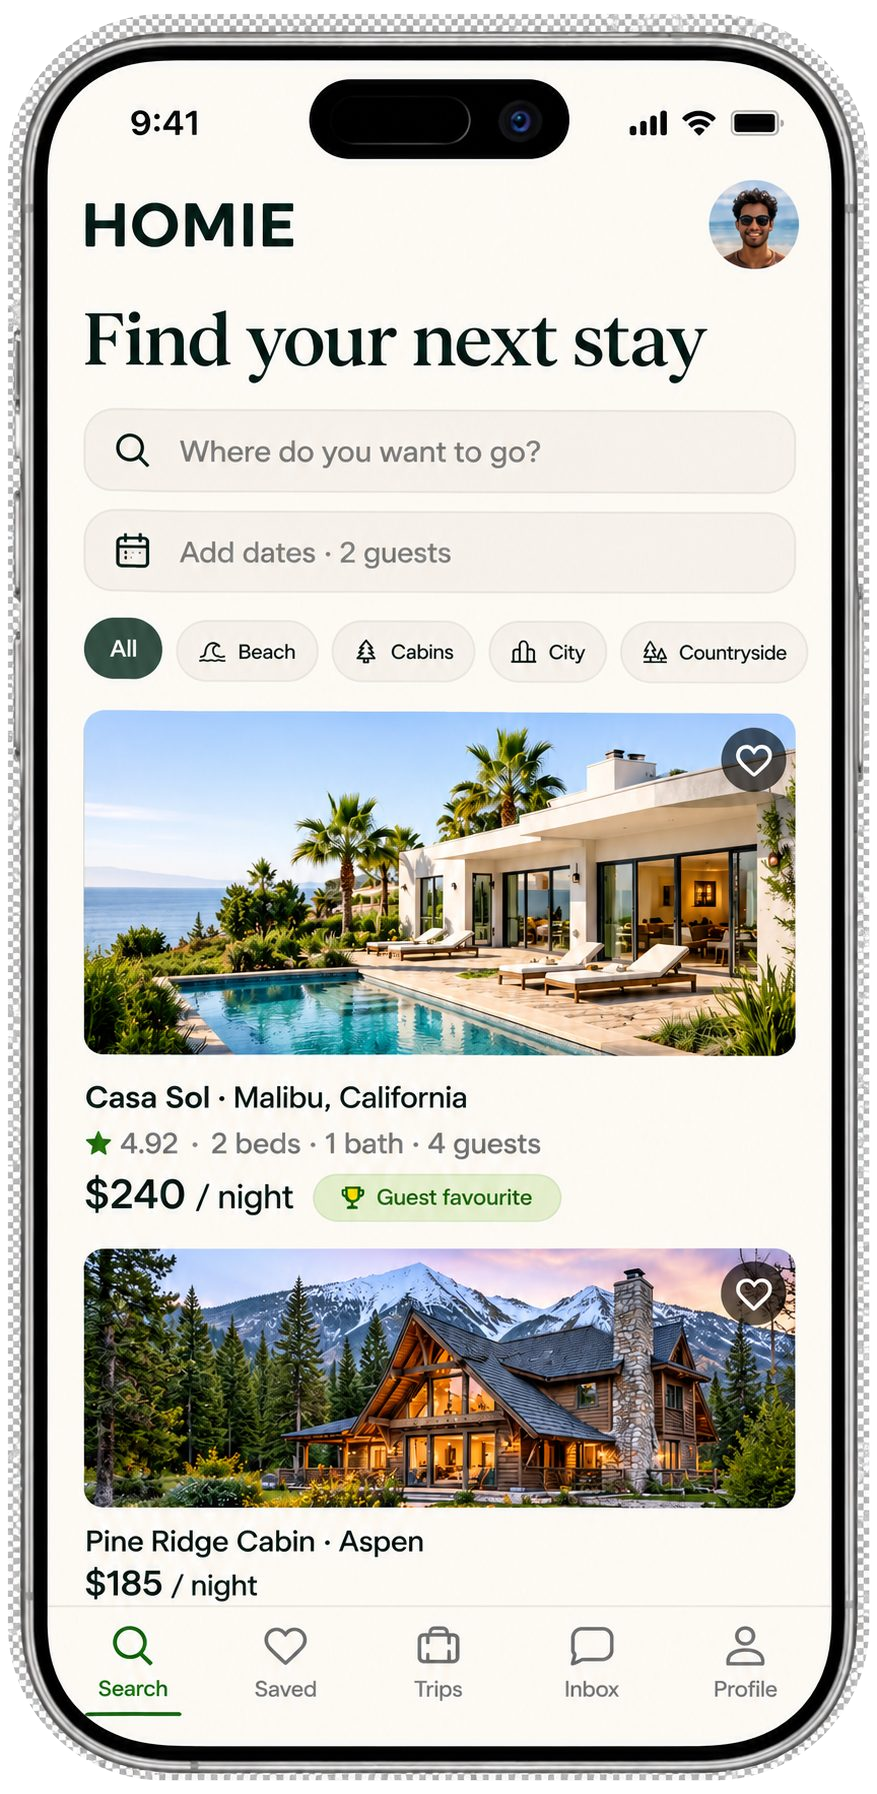
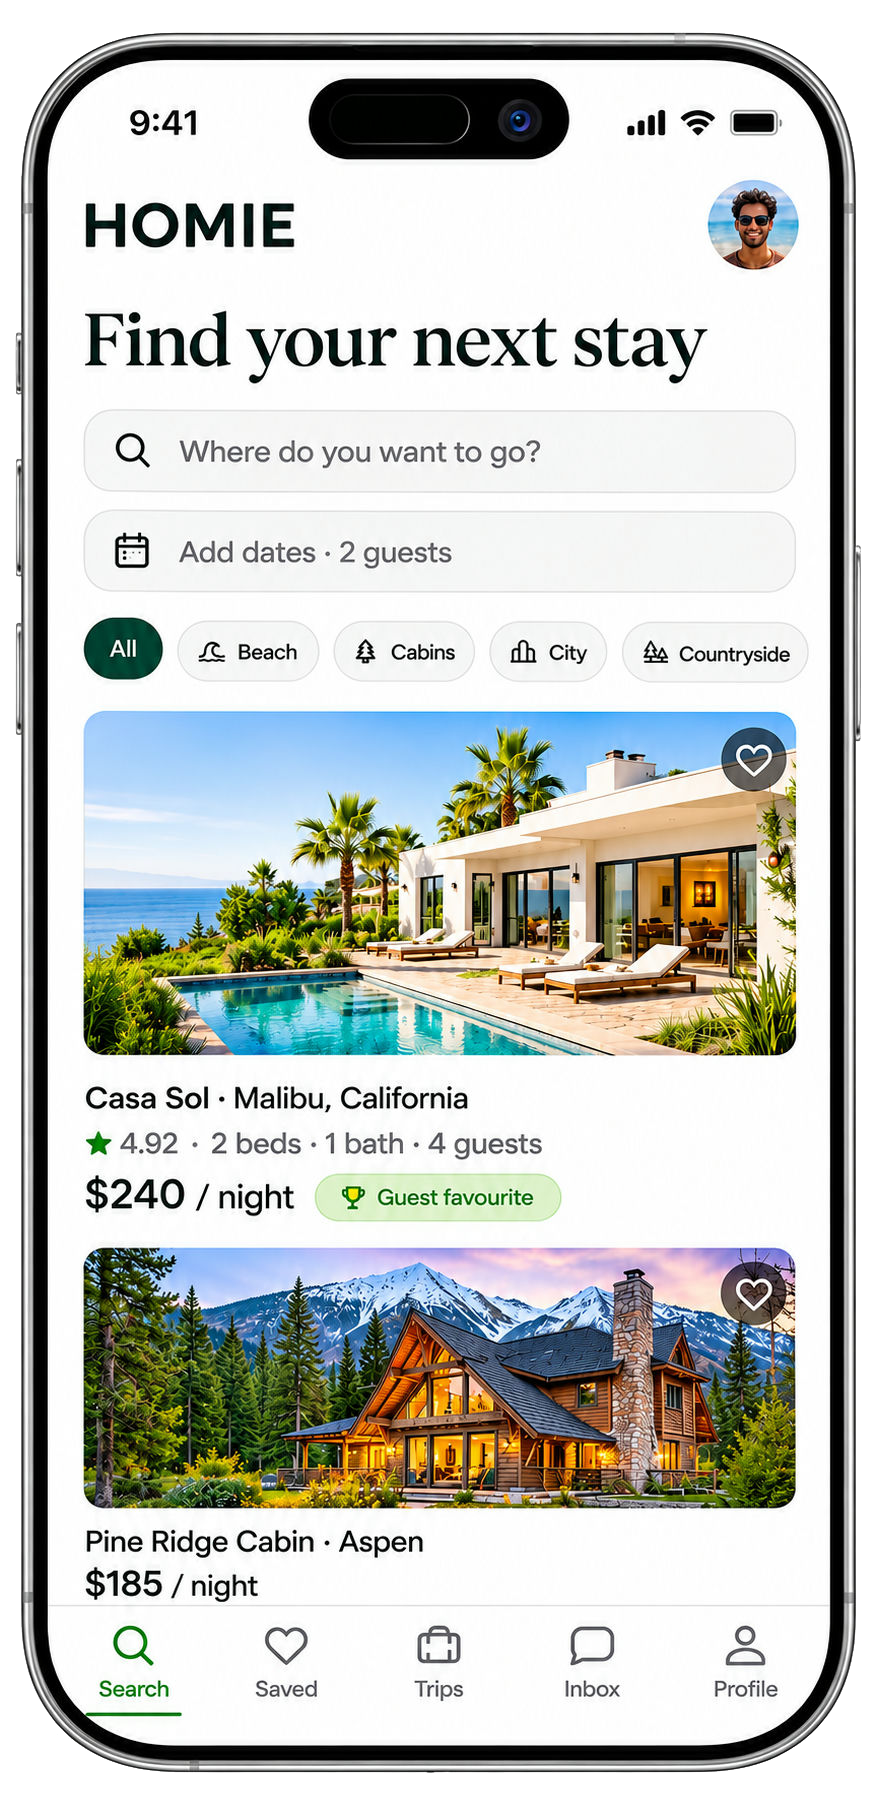
fix: use original hero phone mockup with true white app background and repair scroll color transition rAF chain

diff --git a/components/hero-section.tsx b/components/hero-section.tsx
@@ -45,6 +45,7 @@ export function HeroSection() {
       window.removeEventListener("scroll", handleScroll)
       if (animationFrame.current !== null) {
         cancelAnimationFrame(animationFrame.current)
+        animationFrame.current = null
       }
     }
   }, [])
@@ -129,7 +130,7 @@ export function HeroSection() {
               }`}
             >
               <img
-                src="/images/homie-app-phone-mockup.png"
+                src="/images/homie-app-phone-mockup.png?v=3"
                 alt="Homie travel rental app phone mockup"
                 className="relative z-10 w-full h-auto rounded-[12%]"
               />
